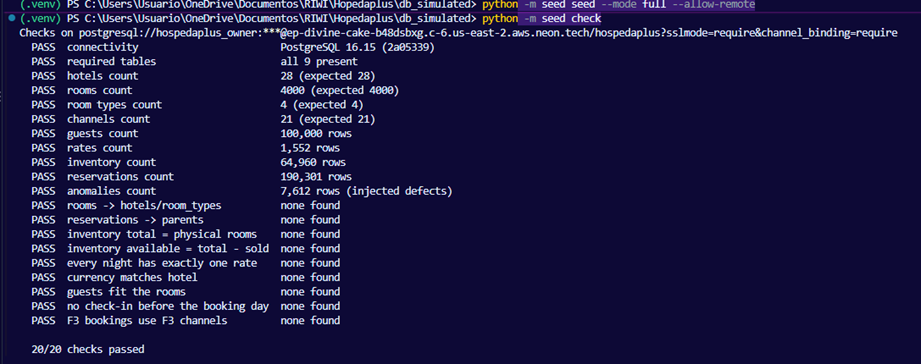
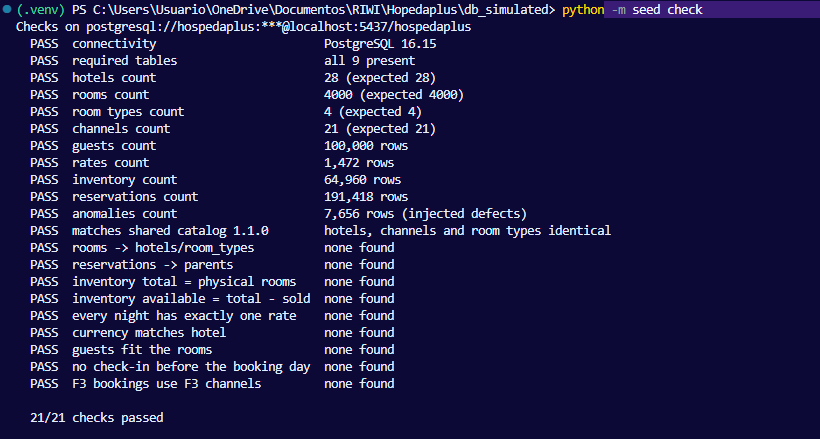
uploaded check image

Changed region(s): [[0.0, 0.0, 1.0, 0.9066], [0.0305, 0.9368, 0.2134, 0.9973]]

diff --git a/DEPLOYEMENT.md b/DEPLOYEMENT.md
@@ -12,7 +12,7 @@ the code is Neon-specific.
 | Data | `full` mode, loaded 2026-10-15 from a laptop, **old catalog**: reload to move to shared catalog 1.0.0 |
 | Health | `python -m seed check`: 20/20 passed (21 checks after the reload) |
 
-![Health evidence](image.png)
+![alt text](image.png)
 
 ## How it was set up
 
